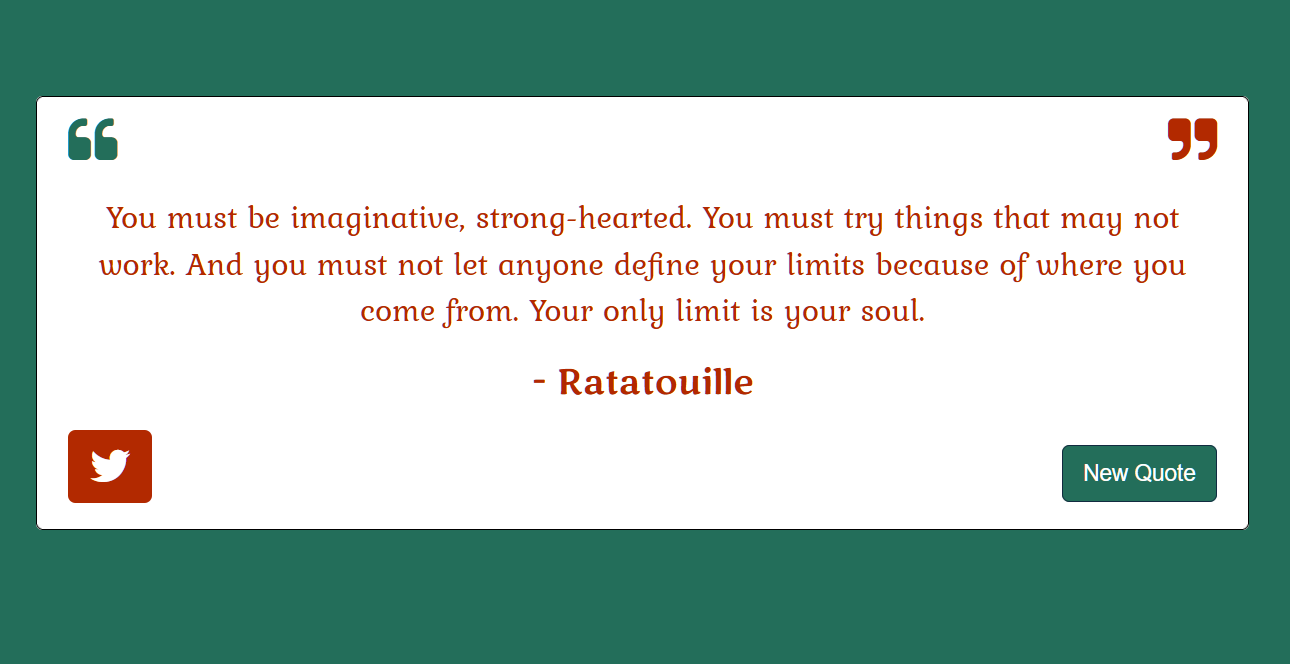
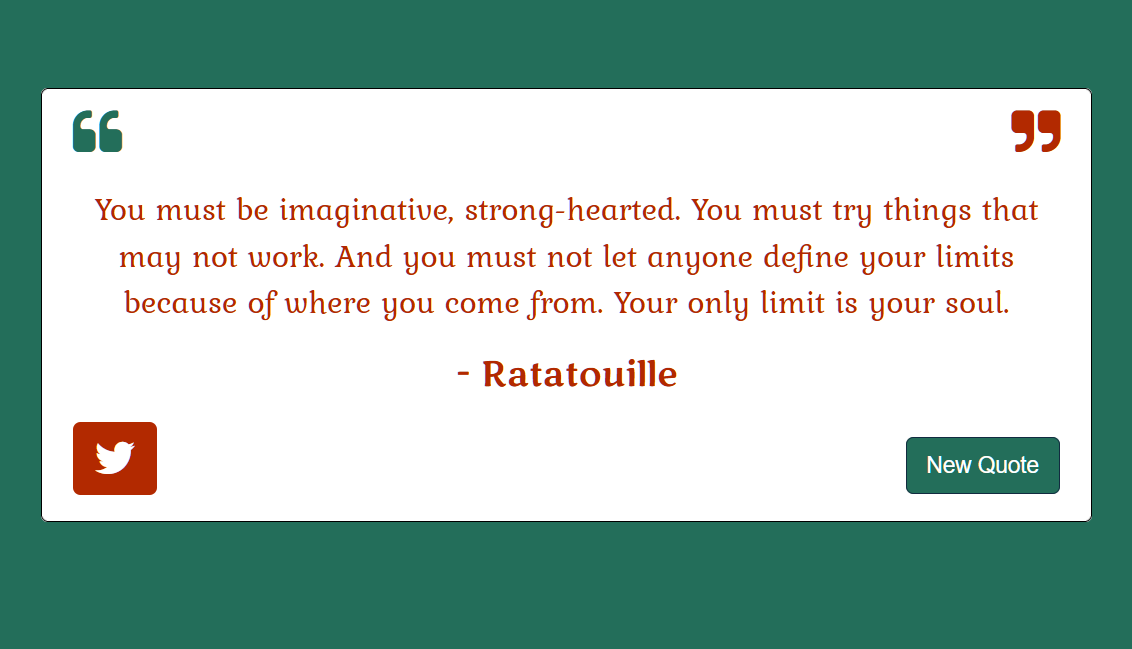
Project view: Adjusted data files for most projects, resized some images, style adjustments for main projects view

Changed region(s): [[0.0, 0.1233, 0.9894, 0.8012], [0.4019, 0.5547, 0.6184, 0.6163]]

diff --git a/components/projectCard.vue b/components/projectCard.vue
@@ -1,17 +1,17 @@
 <template>
   <article class="project-wrapper">
-    <div class="project-images" :class="{ multiPic: project.multiPicType }">
+    <div class="project-images" :class="{ extraPic: project.type === 'extra' }">
       <img v-for="(pic, index) in project.images" :key="index" :src="picUrl(pic)" :alt="project.altText[index]" />
     </div>
-    <h3 class="project-title">{{ project.name }}</h3>
+    <h3 class="project-title" :class="{ extraTitle: project.type === 'extra' }">{{ project.name }}</h3>
     <div class="project-tech">
       <p v-for="(tech, index) in techList" :key="index" class="tech">{{ tech }}</p>
     </div>
-    <p class="project-description">{{ project.description }}</p>
+    <p v-if="project.type === 'key'" class="project-description">{{ project.description }}</p>
     <div class="project-links">
       <a v-if="project.links.demo" :href="project.links.demo" class="demo" target="_blank" rel="noreferrer noopener">Demo</a>
-      <a v-if="project.links.site" :href="project.links.site" class="live" target="_blank" rel="noreferrer noopener">Live Site</a>
       <a v-if="project.links.code" :href="project.links.code" class="code" target="_blank" rel="noreferrer noopener">Code</a>
+      <a v-if="project.links.site" :href="project.links.site" class="live" target="_blank" rel="noreferrer noopener">Live Site</a>
     </div>
   </article>
 </template>
@@ -45,10 +45,10 @@
   .project-wrapper {
     display: flex;
     flex-flow: column;
-    justify-content: space-between;
+    justify-content: flex-start;
     align-items: center;
     width: 98%;
-    padding: 1% 1.5%;
+    padding: 1% 1.5% 2%;
     border-radius: 8px;
     box-shadow: none;
     transition: box-shadow 0.3s, border 0.3s;
@@ -60,7 +60,7 @@
 
   .project-images {
     width: 100%;
-    height: 20vw;
+    height: 17vw;
     display: flex;
     justify-content: center;
   }
@@ -73,7 +73,11 @@
     overflow: hidden;
   }
 
-  .multiPic {
+  .extraPic {
+    height: 12vw;
+  }
+
+  /* .multiPic {
     justify-content: flex-start;
     overflow-x: auto;
     scroll-snap-type: x mandatory;
@@ -109,15 +113,23 @@
   .multiPic img:nth-last-child() {
     margin-left: 3%;
     margin-right: 0;
-  }
+  } */
 
   .project-title {
     color: var(--lightBasic);
-    font-size: 1.5rem;
+    font-size: 1.4rem;
+    text-align: center;
+    margin: 0.5% 0 1.5%;
+  }
+
+  .extraTitle {
+    font-size: 1.15rem;
+    height: 20%;
   }
 
   .project-tech {
     width: 100%;
+    height: 10%;
     display: flex;
     flex-wrap: wrap;
     justify-content: center;
@@ -152,6 +164,7 @@
     color: var(--lightBasic);
     font-size: 0.8rem;
     width: 100%;
+    height: 25%;
     font-family: var(--sansSerif);
     line-height: 1.1rem;
   }
@@ -160,15 +173,16 @@
     width: 100%;
     margin: 2% 0;
     display: flex;
+    flex-wrap: wrap;
     justify-content: center;
-    align-items: center;
+    align-items: flex-end;
   }
 
   .project-links a {
     text-decoration: none;
     border-radius: 5px;
-    padding: 1% 2%;
-    margin: 0 3%;
+    padding: 1% 2.5%;
+    margin: 3%;
     font-weight: 700;
     color: var(--lightBasic);
     transition: color 0.2s ease-in-out, background 0.2s ease-in-out;
@@ -183,20 +197,20 @@
     color: var(--darkBasic);
   }
 
-  .live {
+  .code {
     border: 2px solid var(--lightYellow);
   }
 
-  .live:hover {
+  .code:hover {
     background: var(--lightYellow);
     color: var(--darkBasic);
   }
 
-  .code {
+  .live {
     border: 2px solid var(--lightGreen);
   }
 
-  .code:hover {
+  .live:hover {
     background: var(--lightGreen);
     color: var(--darkBasic);
   }
@@ -207,14 +221,14 @@
       padding: 5% 1.5%;
       border-bottom: 1px solid var(--lightBasic);
       border-radius: 0;
-      margin-top: 7%;
+      margin-top: 3%;
     }
 
     .project-images {
       height: 50vw;
     }
 
-    .multiPic {
+    /* .multiPic {
       flex-direction: column;
       flex-wrap: wrap;
       justify-content: center;
@@ -222,7 +236,7 @@
 
     .multiPic img {
       width: 85vw;
-    }
+    } */
 
     .project-title {
       margin-top: 2%;

diff --git a/pages/projects.vue b/pages/projects.vue
@@ -6,7 +6,7 @@
     <div class="key-projects-wrapper">
       <ProjectCard v-for="(project, index) in keyProjects" :key="index" :project="project" class="card"></ProjectCard>
     </div>
-    <h3 class="title">Extra Fun Side Projects</h3>
+    <h3 class="title">Extra Fun Projects</h3>
     <div class="divider"></div>
     <div class="extra-projects-wrapper">
       <ProjectCard v-for="(project, index) in extraProjects" :key="index" :project="project" class="card"></ProjectCard>
@@ -100,14 +100,21 @@
     font-weight: 900;
   }
 
+  p {
+    text-align: center;
+    color: var(--lightBasic);
+    margin: 0.5% 0 1.5%;
+    font-family: var(--sansSerif);
+  }
+
   .divider {
     height: 4px;
-    width: 20%;
+    width: 25%;
     background: var(--lightGradient);
     margin: 0.25% auto 2%;
   }
 
-  .projects-wrapper {
+  .key-projects-wrapper {
     width: 90%;
     margin: 2% auto;
     padding: 2% 1% 5%;
@@ -118,21 +125,36 @@
     justify-items: center;
   }
 
+  .extra-projects-wrapper {
+    width: 95%;
+    margin: 2% auto;
+    padding: 2% 1% 5%;
+    display: grid;
+    grid-template-columns: repeat(auto-fit, minmax(220px, 1fr));
+    grid-gap: 15px;
+    justify-items: center;
+  }
+
   @media screen and (max-width: 768px) {
     .container {
-      margin-top: 4%;
+      margin-top: 2%;
     }
 
     .title {
       font-size: 2rem;
     }
 
-    .divider {
-      width: 70%;
-      margin: 1% auto 6%;
+    p {
+      margin: 2% 3% 4%;
+      font-size: 0.85rem;
     }
 
-    .projects-wrapper {
+    .divider {
+      width: 70%;
+      margin: 2% auto;
+    }
+
+    .key-projects-wrapper {
       width: 95%;
       padding: 0;
       margin-bottom: 5%;
